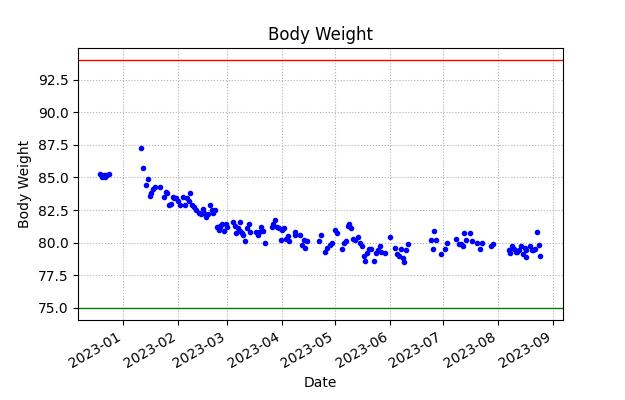
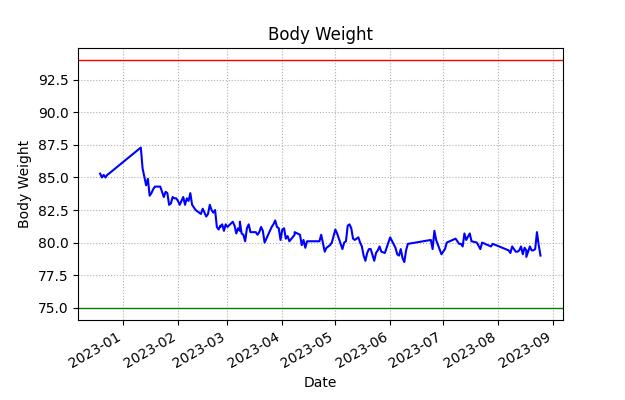
Minor changes to weight graphing.

Changed region(s): [[0.1824, 0.36, 0.8816, 0.66], [0.152, 0.42, 0.1824, 0.45]]

diff --git a/body_weight.py b/body_weight.py
@@ -52,7 +52,7 @@ class WeightHistoryPlotter:
         plt.axhline(y=start_weight, linewidth=1, color='r')
         plt.axhline(y=target_weight, linewidth=1, color='g')
 
-        ax.plot(x_data, y_data, 'b.')
+        ax.plot(x_data, y_data, 'b-')
 
         # xfmt = dates.DateFormatter('%d-%m-%y')
         # ax.xaxis.set_major_formatter(xfmt)
